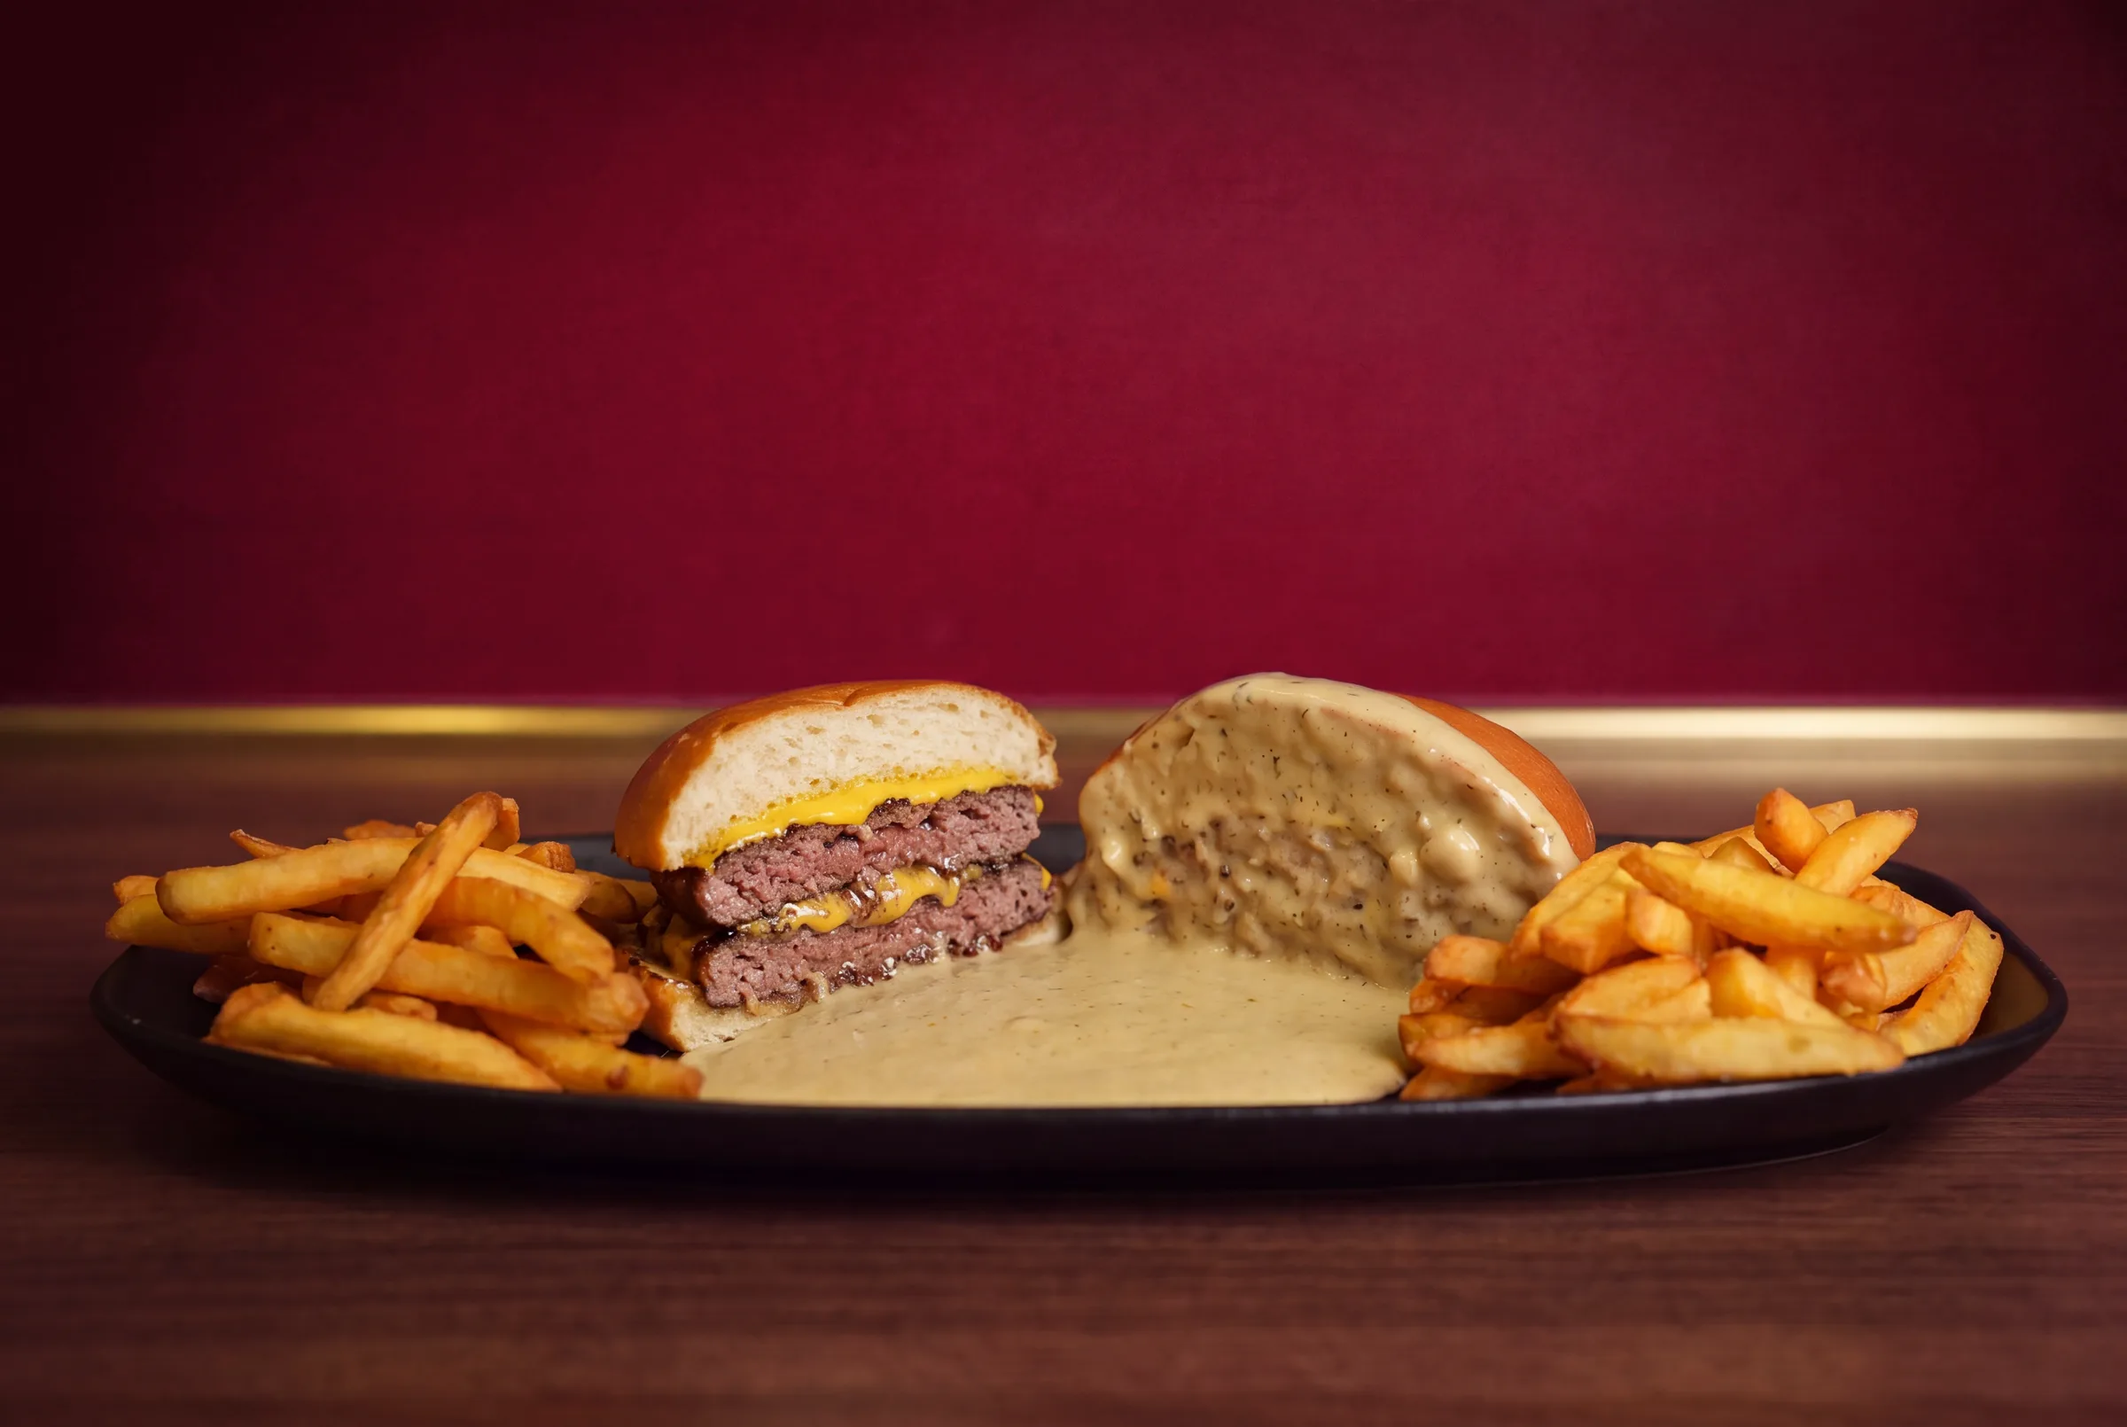
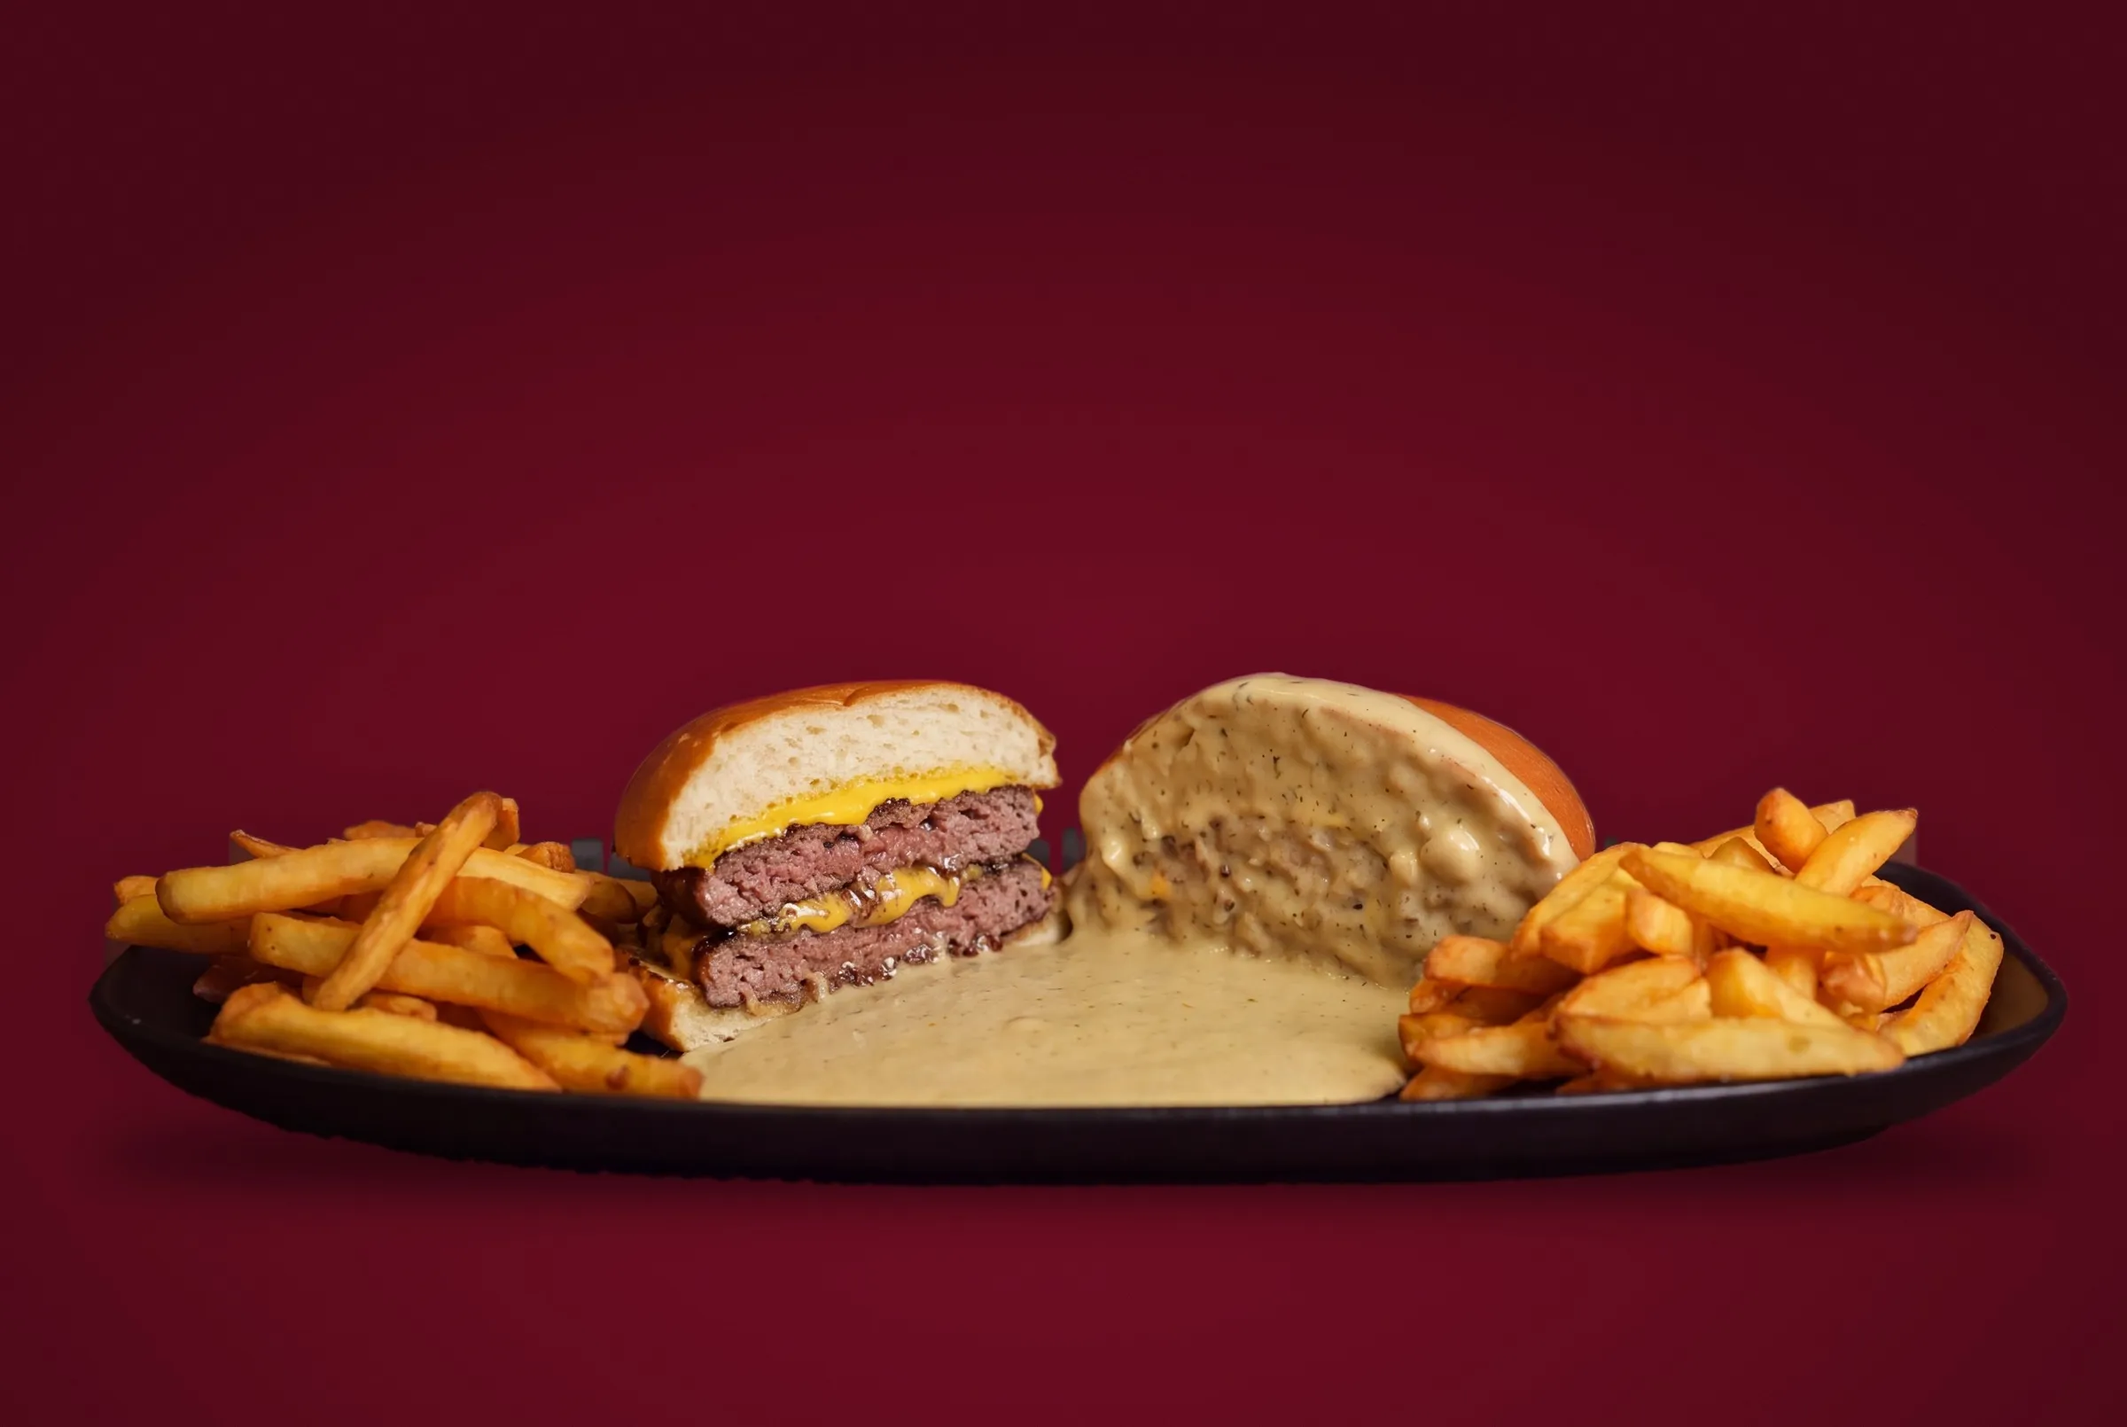
APB site-c : carte 80/160/240 g et fond bordeaux studio (#188)
* Skills : ajoute Hallmark (anti-AI slop, MIT) avec les règles Nouvelle Ardoise

Claude-Session: https://claude.ai/code/session_01GfNPGhMMwHk9JCBVJknyRy

* Démo APB : maquette d'accueil du site final, direction Brasserie claire (noindex)

Claude-Session: https://claude.ai/code/session_01GfNPGhMMwHk9JCBVJknyRy

* Démo APB site-b : ouverture sur le burger coupé dans la sauce, photos en brasserie, histoire officielle et adresses

Claude-Session: https://claude.ai/code/session_01GfNPGhMMwHk9JCBVJknyRy

* Démo APB site-b : Madrid en livraison, 3 lignes éditoriales (?edito=a|b|c), burger dégagé du texte

Claude-Session: https://claude.ai/code/session_01GfNPGhMMwHk9JCBVJknyRy

* Démo APB site-b : édito Rituel, fond Merlot, scroll image par image (63 vraies photos), barre des maisons, pop-up 200 burgers, carte smash/burgers/baguette

Claude-Session: https://claude.ai/code/session_01GfNPGhMMwHk9JCBVJknyRy

* Démo APB site-b : scroll immersif de A à Z (smash, fondu, montage, coupe, sauce), 127 vraies photos

Claude-Session: https://claude.ai/code/session_01GfNPGhMMwHk9JCBVJknyRy

* Démo APB site-b : scroll limité à la coupe (un seul cadrage) avec fondu vers la sauce

Claude-Session: https://claude.ai/code/session_01GfNPGhMMwHk9JCBVJknyRy

* Retire les images de la séquence A à Z

Claude-Session: https://claude.ai/code/session_01GfNPGhMMwHk9JCBVJknyRy

* Démo APB site-b : entrée immersive, caméra du monogramme doré en relief jusqu'au burger dans la sauce
[…]

diff --git a/public/demos/atelier-paris-burger/site-c/index.html b/public/demos/atelier-paris-burger/site-c/index.html
@@ -77,6 +77,16 @@ a{color:inherit;text-decoration:none}
 @media (hover:hover){.card:hover .ph img{transform:scale(1.035)}}
 .card .t{padding:22px 22px 24px;display:flex;flex-direction:column;flex:1}
 .card h3{font:500 30px/1.05 var(--serif);color:var(--merlot)}
+.carte .groupe{margin-top:44px}
+#baguette .grid{grid-template-columns:1fr}
+#baguette .card{flex-direction:row}
+#baguette .card .ph{flex:0 0 58%;aspect-ratio:auto;min-height:340px}
+#baguette .card .t{justify-content:center;padding:36px}
+.carte .groupe:first-of-type{margin-top:8px}
+.carte .gt{display:flex;align-items:baseline;gap:18px;flex-wrap:wrap;margin-bottom:18px;padding-bottom:12px;border-bottom:1px solid rgba(127,15,40,.18)}
+.carte .gt h3{font:500 32px/1 var(--serif);color:var(--merlot)}
+.carte .gt p{font-size:15px;color:var(--txt2)}
+.card .sub{font-size:13px;font-weight:600;letter-spacing:.04em;color:#8A5A12;flex:none;margin-bottom:6px}
 .card .rule{width:34px;height:1px;background:var(--or);margin:14px 0}
 .card p{font-size:15px;line-height:1.5;color:var(--txt2);flex:1}
 .card .bas{display:flex;align-items:center;justify-content:space-between;margin-top:20px}
@@ -139,6 +149,9 @@ footer small{display:block;margin-top:26px;font-size:12px;opacity:.78}
 @media (prefers-reduced-motion:reduce){.chap .ph{clip-path:none;transition:none}.chap .ph img{transform:none!important;transition:none}.chap .t>*{opacity:1;transform:none;transition:none}.chap .ligne{width:120px;transition:none}}
 .barre{display:none}
 @media (max-width:860px){
+ #baguette .card{flex-direction:column}
+ #baguette .card .ph{flex:none;aspect-ratio:5/4;min-height:0}
+ #baguette .card .t{padding:22px 22px 24px}
  .top .w{grid-template-columns:auto 1fr;height:62px}
  .top nav{display:none}
  .top .mono{justify-self:start}
@@ -182,12 +195,12 @@ footer small{display:block;margin-top:26px;font-size:12px;opacity:.78}
 </style></head><body>
 <header class="top"><div class="w"><nav aria-label="Menu"><a href="#carte">La carte</a><a href="#histoire">Notre histoire</a><a href="#maisons">Nos maisons</a></nav><a class="mono" href="#" aria-label="Atelier Paris Burger, accueil"><img src="../lignes/img/monogramme-or.svg" alt=""></a><div class="r"><div class="langs"><a class="on" href="#">FR</a><a href="#">EN</a><a href="#">ES</a></div><a class="btn btn-or" href="../site-b/geneve/">Commander</a></div></div></header>
 <main>
-<section class="ouv"><h1 class="vh">Atelier Paris Burger</h1><div class="scene"><picture class="on"><source media="(max-width:860px)" srcset="img/m-burger.webp"><img fetchpriority="high" src="img/h-burger.webp" alt="Burger 160 g coupé en deux, posé dans la sauce Café de Paris, frites" width="2400" height="1610"></picture><picture class=""><source media="(max-width:860px)" srcset="img/m-double-smash.webp"><img src="img/h-double-smash.webp" alt="Double smash burger coupé, posé dans la sauce Café de Paris, frites" width="2400" height="1610" loading="lazy"></picture><picture class=""><source media="(max-width:860px)" srcset="img/m-baguette.webp"><img src="img/h-baguette.webp" alt="Baguette au bœuf tartinée de sauce Café de Paris" width="2400" height="1610" loading="lazy"></picture>
+<section class="ouv"><h1 class="vh">Atelier Paris Burger</h1><div class="scene"><picture class="on"><source media="(max-width:860px)" srcset="img/m-burger.webp"><img fetchpriority="high" src="img/h-burger.webp" alt="Burger 160 g coupé en deux, frites et sauce Café de Paris, sur fond bordeaux" width="2400" height="1610"></picture><picture class=""><source media="(max-width:860px)" srcset="img/m-smash.webp"><img src="img/h-smash.webp" alt="Smash 240 g triple coupé en deux, frites et sauce Café de Paris, sur fond bordeaux" width="2400" height="1610" loading="lazy"></picture><picture class=""><source media="(max-width:860px)" srcset="img/m-baguette.webp"><img src="img/h-baguette.webp" alt="Baguette au bœuf tartinée de sauce Café de Paris" width="2400" height="1610" loading="lazy"></picture>
 <div class="txt"><p class="caps eye">Sauce Café de Paris<span class="dl"> · depuis plus de quarante ans</span></p><p class="titre">La sauce des brasseries parisiennes, <em>en smash burger.</em></p>
 <div class="cta"><a class="btn btn-or" href="../site-b/geneve/">Commander à Genève →</a><a class="btn btn-ligne" href="../site-b/reserver/">Mon burger offert</a></div></div>
-<div class="plats" role="group" aria-label="Nos plats"><button type="button" aria-pressed="true">Burger 160 g</button><button type="button" aria-pressed="false">Double smash</button><button type="button" aria-pressed="false">Baguette</button></div></div>
+<div class="plats" role="group" aria-label="Nos plats"><button type="button" aria-pressed="true">Burger 160 g</button><button type="button" aria-pressed="false">Smash triple</button><button type="button" aria-pressed="false">Baguette</button></div></div>
 <nav class="villes w" aria-label="Nos villes"><a class="on" href="../site-b/geneve/">Genève<small>Sur place</small></a><a href="#maisons">Madrid<small>En livraison</small></a><a href="#maisons">Ibiza<small>Sur place</small></a></nav></section>
-<section class="carte" id="carte"><div class="w"><div class="tete"><div><span class="caps eye">Genève</span><h2>La carte</h2></div><nav class="tabs" aria-label="Catégories"><a class="on" href="#carte">Tout</a><a href="#double-smash">Smash</a><a href="#burger">Burgers</a><a href="#baguette">Baguette</a></nav></div><div class="grid"><article class="card" id="double-smash"><div class="ph"><img src="img/double-smash.webp" alt="Le double smash, servi avec la sauce Café de Paris" loading="lazy" width="1000" height="800"></div><div class="t"><h3>Le double smash</h3><div class="rule"></div><p>Deux steaks smashés sur la plaque, cheddar fondu. Servi avec la sauce Café de Paris.</p><div class="bas"><span>Sauce Café de Paris</span><a class="btn btn-m" href="../site-b/geneve/">Commander</a></div></div></article><article class="card" id="burger"><div class="ph"><img src="img/burger.webp" alt="Le burger 160 g, servi avec la sauce Café de Paris" loading="lazy" width="1000" height="800"></div><div class="t"><h3>Le burger 160 g</h3><div class="rule"></div><p>Bœuf, cheddar, coupé en deux et posé dans la sauce Café de Paris.</p><div class="bas"><span>Sauce Café de Paris</span><a class="btn btn-m" href="../site-b/geneve/">Commander</a></div></div></article><article class="card" id="baguette"><div class="ph"><img src="img/baguette.webp" alt="La baguette, servi avec la sauce Café de Paris" loading="lazy" width="1000" height="800"></div><div class="t"><h3>La baguette</h3><div class="rule"></div><p>Croustillante, garnie de bœuf et tartinée de sauce Café de Paris.</p><div class="bas"><span>Sauce Café de Paris</span><a class="btn btn-m" href="../site-b/geneve/">Commander</a></div></div></article></div></div></section>
+<section class="carte" id="carte"><div class="w"><div class="tete"><div><span class="caps eye">Genève</span><h2>La carte</h2></div><nav class="tabs" aria-label="Catégories"><a class="on" href="#carte">Tout</a><a href="#smash">Smash</a><a href="#burgers">Burgers</a><a href="#baguette">Baguette</a></nav></div><div class="groupe" id="smash"><div class="gt"><h3>Smash</h3><p>Servis avec frites et sauce Café de Paris.</p></div><div class="grid"><article class="card" id="smash-80"><div class="ph"><img src="img/c-smash-80.webp" alt="Smash 80 g, servi avec frites et sauce Café de Paris, sur fond bordeaux" loading="lazy" width="1000" height="800"></div><div class="t"><p class="sub">Simple</p><h3>Smash 80 g</h3><div class="rule"></div><p>Steak smashé sur la plaque, bords croustillants, cheddar fondu.</p><div class="bas"><span>Frites et sauce Café de Paris</span><a class="btn btn-m" href="../site-b/geneve/">Commander</a></div></div></article><article class="card" id="smash-160"><div class="ph"><img src="img/c-smash-160.webp" alt="Smash 160 g, servi avec frites et sauce Café de Paris, sur fond bordeaux" loading="lazy" width="1000" height="800"></div><div class="t"><p class="sub">Double</p><h3>Smash 160 g</h3><div class="rule"></div><p>Steak smashé sur la plaque, bords croustillants, cheddar fondu.</p><div class="bas"><span>Frites et sauce Café de Paris</span><a class="btn btn-m" href="../site-b/geneve/">Commander</a></div></div></article><article class="card" id="smash-240"><div class="ph"><img src="img/c-smash-240.webp" alt="Smash 240 g, servi avec frites et sauce Café de Paris, sur fond bordeaux" loading="lazy" width="1000" height="800"></div><div class="t"><p class="sub">Triple</p><h3>Smash 240 g</h3><div class="rule"></div><p>Steak smashé sur la plaque, bords croustillants, cheddar fondu.</p><div class="bas"><span>Frites et sauce Café de Paris</span><a class="btn btn-m" href="../site-b/geneve/">Commander</a></div></div></article></div></div><div class="groupe" id="burgers"><div class="gt"><h3>Burgers</h3><p>Servis avec frites et sauce Café de Paris.</p></div><div class="grid"><article class="card" id="burger-80"><div class="ph"><img src="img/c-burger-80.webp" alt="Burger 80 g, servi avec frites et sauce Café de Paris, sur fond bordeaux" loading="lazy" width="1000" height="800"></div><div class="t"><h3>Burger 80 g</h3><div class="rule"></div><p>Steak épais, cuisson rosée, cheddar.</p><div class="bas"><span>Frites et sauce Café de Paris</span><a class="btn btn-m" href="../site-b/geneve/">Commander</a></div></div></article><article class="card" id="burger-160"><div class="ph"><img src="img/c-burger-160.webp" alt="Burger 160 g, servi avec frites et sauce Café de Paris, sur fond bordeaux" loading="lazy" width="1000" height="800"></div><div class="t"><h3>Burger 160 g</h3><div class="rule"></div><p>Steak épais, cuisson rosée, cheddar.</p><div class="bas"><span>Frites et sauce Café de Paris</span><a class="btn btn-m" href="../site-b/geneve/">Commander</a></div></div></article><article class="card" id="burger-240"><div class="ph"><img src="img/c-burger-240.webp" alt="Burger 240 g, servi avec frites et sauce Café de Paris, sur fond bordeaux" loading="lazy" width="1000" height="800"></div><div class="t"><h3>Burger 240 g</h3><div class="rule"></div><p>Steak épais, cuisson rosée, cheddar.</p><div class="bas"><span>Frites et sauce Café de Paris</span><a class="btn btn-m" href="../site-b/geneve/">Commander</a></div></div></article></div></div><div class="groupe" id="baguette"><div class="gt"><h3>Baguette</h3><p>Servie sans frites.</p></div><div class="grid"><article class="card" id="baguette"><div class="ph"><img src="img/c-baguette.webp" alt="La baguette, au bœuf, tartinée de sauce Café de Paris, sur fond bordeaux" loading="lazy" width="1000" height="800"></div><div class="t"><p class="sub">Sans frites</p><h3>La baguette</h3><div class="rule"></div><p>Pain tendre, bœuf tranché, tartinée de sauce Café de Paris. Servie seule.</p><div class="bas"><span>Sauce tartinée</span><a class="btn btn-m" href="../site-b/geneve/">Commander</a></div></div></article></div></div></div></section>
 <section class="geste" aria-labelledby="geste-t"><div class="w in"><div><span class="caps eye" style="color:var(--orc)">Le geste</span><h2 id="geste-t">Trois temps, <em>une seule sauce.</em></h2><p class="lead">En cuisine : le bœuf smashé sur la plaque, le cheddar, la coupe au couteau, puis servi avec la sauce Café de Paris.</p>
 <ol class="mots" aria-hidden="true"><li data-t="0" class="on">Smashé.</li><li data-t="4">Coupé.</li><li data-t="6.76">Trempé.</li></ol></div>
 <div class="film"><video id="film" src="film.mp4" poster="img/film-poster.jpg" muted playsinline loop preload="none" aria-label="Photos du tournage en cuisine : le smash, le cheddar, la coupe, le burger posé dans la sauce"></video><button class="pause" type="button" aria-label="Mettre en pause"><svg aria-hidden="true" width="14" height="14" viewBox="0 0 14 14"><path d="M3 2h3v10H3zM8 2h3v10H8z" fill="currentColor"/></svg></button></div></div></section>
@@ -195,7 +208,7 @@ footer small{display:block;margin-top:26px;font-size:12px;opacity:.78}
 <section class="hist" id="histoire"><div class="w"><div class="intro"><span class="caps eye">Notre histoire</span><h2>Inspirée par la tradition, <em>élevée à l’excellence.</em></h2><p class="lead">Une sauce de la grande tradition des sauces d’entrecôte, née entre Genève et Paris. Nous ne l’avons pas inventée : nous la servons comme elle le mérite.</p></div>
 <article class="chap"><div class="ph"><img src="img/hist-1.webp" alt="La brasserie Le Dôme, boulevard du Montparnasse, en 1931" loading="lazy" width="1500" height="910"><small class="cr">Le Dôme, Montparnasse, 1931 · Agence Rol, BnF</small></div><div class="t"><span class="an" data-n="1980">1980</span><h3>Paris</h3><p>La sauce arrive dans les brasseries parisiennes : rue Feydeau, rue de Ponthieu, rue François-Miron.</p><span class="ligne"></span></div></article>
 <article class="chap inv"><div class="ph"><img src="img/hist-2.webp" alt="Cinq cuisiniers en toque au travail dans une cuisine parisienne" loading="lazy" width="1400" height="1069"><small class="cr">Cuisine parisienne, années 1920 · Agence Meurisse, BnF</small></div><div class="t"><span class="an" data-n="40">40<small>ans</small></span><h3>Le geste transmis</h3><p>De salle en salle, la recette s’affine et le geste se transmet.</p><span class="ligne"></span></div></article>
-<article class="chap"><div class="ph"><img src="img/hist-3.webp" alt="Burger coupé posé dans la sauce Café de Paris, frites" loading="lazy" width="900" height="672"></div><div class="t"><span class="an">Aujourd’hui</span><h3>En smash burger</h3><p>Smashé sur la plaque, coupé, servi avec la sauce. À Genève, Madrid et Ibiza.</p><span class="ligne"></span></div></article>
+<article class="chap"><div class="ph"><img src="img/hist-3.webp" alt="Steak smashé sur la plaque en cuisine" loading="lazy" width="900" height="675"></div><div class="t"><span class="an">Aujourd’hui</span><h3>En smash burger</h3><p>Smashé sur la plaque, coupé, servi avec la sauce. À Genève, Madrid et Ibiza.</p><span class="ligne"></span></div></article>
 </div></section>
 <section class="maisons" id="maisons"><div class="w"><div class="tete"><div><span class="caps eye">Nos maisons</span><h2>Trois villes</h2></div></div><div class="grid">
 <article><div class="vph"><img src="img/ville-geneve.webp" alt="La rade de Genève et le jet d’eau" loading="lazy" width="1000" height="750"></div><h3>Genève</h3><p>Sur place et à emporter. Commande en ligne, retrait au comptoir.</p><a class="l" href="../site-b/geneve/">Commander à Genève</a></article>
